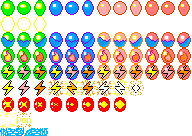
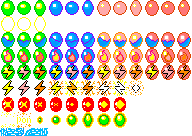
anim bubble

Changed region(s): [[0.3438, 0.8235, 0.6562, 0.9412], [0.25, 0.8235, 0.3125, 0.9412], [0.1875, 0.8529, 0.2188, 0.9118]]

diff --git a/Code/Bubble-Bobble/src/Bubble.cpp b/Code/Bubble-Bobble/src/Bubble.cpp
@@ -53,8 +53,8 @@ AppStatus Bubble::Initialise()
 	sprite->AddKeyFrame((int)BubbleAnim::IDLE, { n, 0, n, n });
 
 	sprite->SetAnimationDelay((int)BubbleAnim::INSHOOT, ANIM_DELAY + 6);
-	for (int i = 0; i < 3; ++i)
-		sprite->AddKeyFrame((int)BubbleAnim::INSHOOT, { (float)i * n, 0, n, n });
+	for (int i = 2; i < 8; ++i)
+		sprite->AddKeyFrame((int)BubbleAnim::INSHOOT, { (float)i * n, 7*n, n, n });
 
 	sprite->SetAnimation((int)BubbleAnim::INSHOOT);
 	return AppStatus::OK;
